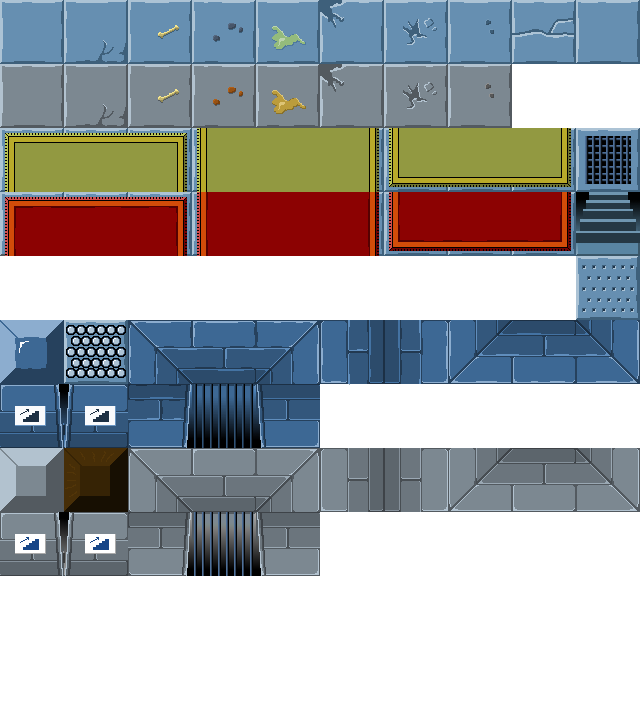
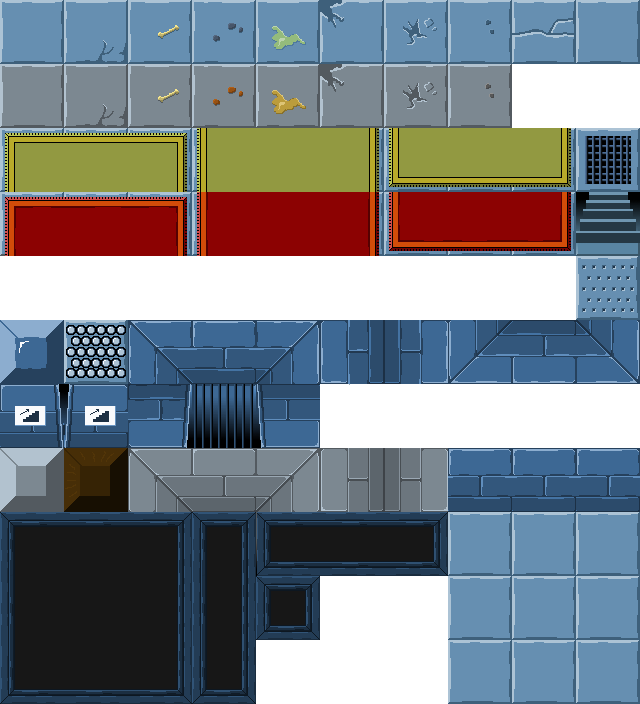
ADD Holes in map

Changed region(s): [[0.0, 0.625, 1.0, 1.0]]

diff --git a/src/StandardRoomGenerator.h b/src/StandardRoomGenerator.h
@@ -23,17 +23,17 @@ void generateStandardRoom01()
 
   if (random < 16)
   {
-    game().getCurrentMap()->generateRoom(rand()%4);
+    game().getCurrentMap()->generateRoomWithoutHoles(rand() % ROOM_TYPE_CHECKER);
     game().findPlaceMonsters(MONSTER_RAT,2);
   }
   else if (random < 32)
   {
-    game().getCurrentMap()->generateRoom(rand()%5);
+    game().getCurrentMap()->generateRoomWithoutHoles(rand() % ROOM_TYPE_ALL);
     game().findPlaceMonsters(MONSTER_BAT,2);
   }
   else if (random < 48)
   {
-    game().getCurrentMap()->generateRoom(rand()%5);
+    game().getCurrentMap()->generateRoomWithoutHoles(rand() % ROOM_TYPE_ALL);
     game().findPlaceMonsters(MONSTER_EVIL_FLOWER,2);
   }
   else
@@ -50,17 +50,17 @@ void generateStandardRoom02()
 
   if (random < 16)
   {
-    game().getCurrentMap()->generateRoom(rand()%4);
+    game().getCurrentMap()->generateRoomRandom(rand() % ROOM_TYPE_CHECKER);
     game().findPlaceMonsters(MONSTER_RAT,4);
   }
   else if (random < 32)
   {
-    game().getCurrentMap()->generateRoom(rand()%5);
+    game().getCurrentMap()->generateRoomRandom(rand() % ROOM_TYPE_ALL);
     game().findPlaceMonsters(MONSTER_BAT,4);
   }
   else if (random < 48)
   {
-    game().getCurrentMap()->generateRoom(rand()%5);
+    game().getCurrentMap()->generateRoomRandom(rand() % ROOM_TYPE_ALL);
     game().findPlaceMonsters(MONSTER_EVIL_FLOWER,4);
   }
   else if (random < 64)
@@ -71,13 +71,13 @@ void generateStandardRoom02()
   }
   else if (random < 80)
   {
-    game().getCurrentMap()->generateRoom(rand()%4);
+    game().getCurrentMap()->generateRoomRandom(rand() % ROOM_TYPE_ALL);
     game().findPlaceMonsters(MONSTER_RAT,3);
     game().findPlaceMonsters(MONSTER_BAT,3);
   }
   else
   {
-    game().getCurrentMap()->generateRoom(4);
+    game().getCurrentMap()->generateRoomRandom(ROOM_TYPE_CHECKER);
     game().findPlaceMonsters(MONSTER_BLACK_RAT,6);
   }
 }
@@ -88,18 +88,18 @@ void generateStandardRoom03()
 
   if (random < 16)
   {
-    game().getCurrentMap()->generateRoom(rand()%4);
+    game().getCurrentMap()->generateRoomRandom(rand() % ROOM_TYPE_CHECKER);
     game().findPlaceMonsters(MONSTER_RAT, 6);
   }
   else if (random < 32)
   {
-    game().getCurrentMap()->generateRoom(rand()%5);
+    game().getCurrentMap()->generateRoomRandom(rand() % ROOM_TYPE_ALL);
     game().findPlaceMonsters(MONSTER_BAT, 6);
     if (rand() % 3 == 0) game().findPlaceMonsters(MONSTER_IMP_RED, 1);
   }
   else if (random < 48)
   {
-    game().getCurrentMap()->generateRoom(rand()%5);
+    game().getCurrentMap()->generateRoomRandom(rand() % ROOM_TYPE_ALL);
     game().findPlaceMonsters(MONSTER_EVIL_FLOWER, 5);
     if (rand() % 3 == 0) game().findPlaceMonsters(MONSTER_IMP_BLUE, 1);
   }
@@ -111,7 +111,7 @@ void generateStandardRoom03()
   }
   else if (random < 80)
   {
-    game().getCurrentMap()->generateRoom(rand()%4);
+    game().getCurrentMap()->generateRoomRandom(rand() % ROOM_TYPE_CHECKER);
     game().findPlaceMonsters(MONSTER_RAT,3);
     game().findPlaceMonsters(MONSTER_BAT,3);
     if (rand() % 2 == 0) game().findPlaceMonsters(MONSTER_IMP_RED, 1);
@@ -119,12 +119,12 @@ void generateStandardRoom03()
   }
   else if (random < 95)
   {
-    game().getCurrentMap()->generateRoom(4);
+    game().getCurrentMap()->generateRoomRandom(ROOM_TYPE_CHECKER);
     game().findPlaceMonsters(MONSTER_BLACK_RAT,6);
   }
   else
   {
-    game().getCurrentMap()->generateRoom(rand()%4);
+    game().getCurrentMap()->generateRoomWithoutHoles(rand() % ROOM_TYPE_CHECKER);
     game().getCurrentMap()->addRandomGrids(4);
     game().findPlaceMonsters(MONSTER_SLIME, 7 + rand() % 5);
     if (rand() % 4 == 0) game().findPlaceMonsters(MONSTER_SLIME_BLUE, 1);
@@ -138,19 +138,19 @@ void generateStandardRoom04()
 
   if (random < 16)
   {
-    game().getCurrentMap()->generateRoom(rand()%4);
+    game().getCurrentMap()->generateRoomRandom(rand() % ROOM_TYPE_CHECKER);
     game().findPlaceMonsters(MONSTER_RAT, 7);
   }
   else if (random < 32)
   {
-    game().getCurrentMap()->generateRoom(rand()%5);
+    game().getCurrentMap()->generateRoomRandom(rand() % ROOM_TYPE_ALL);
     game().findPlaceMonsters(MONSTER_BAT, 3);
     if (rand() % 2 == 0) game().findPlaceMonsters(MONSTER_IMP_RED, 3);
     else game().findPlaceMonsters(MONSTER_IMP_BLUE, 3);
   }
   else if (random < 48)
   {
-    game().getCurrentMap()->generateRoom(rand()%5);
+    game().getCurrentMap()->generateRoomRandom(rand() % ROOM_TYPE_ALL);
     game().findPlaceMonsters(MONSTER_EVIL_FLOWER, 5);
     if (rand() % 2 == 0) game().findPlaceMonsters(MONSTER_IMP_RED, 2);
     else game().findPlaceMonsters(MONSTER_IMP_BLUE, 2);
@@ -163,18 +163,18 @@ void generateStandardRoom04()
   }
   else if (random < 80)
   {
-    game().getCurrentMap()->generateRoom(rand()%4);
+    game().getCurrentMap()->generateRoomRandom(rand() % ROOM_TYPE_CHECKER);
     game().findPlaceMonsters(MONSTER_IMP_RED, 3);
     game().findPlaceMonsters(MONSTER_IMP_BLUE, 3);
   }
   else if (random < 95)
   {
-    game().getCurrentMap()->generateRoom(4);
+    game().getCurrentMap()->generateRoomRandom(ROOM_TYPE_CHECKER);
     game().findPlaceMonsters(MONSTER_BLACK_RAT,7);
   }
   else
   {
-    game().getCurrentMap()->generateRoom(rand()%4);
+    game().getCurrentMap()->generateRoomWithoutHoles(rand() % ROOM_TYPE_CHECKER);
     game().getCurrentMap()->addRandomGrids(4);
     int r = 8 + rand() % 5;
     for (int i = 0; i < r; i++)

diff --git a/src/DungeonMap.cpp b/src/DungeonMap.cpp
@@ -143,6 +143,7 @@ bool DungeonMap::isFlyable(int x, int y)
 bool DungeonMap::isShootable(int x, int y)
 {
   if (!inMap(x, y)) return true;
+  if (map[x][y] >=  MAP_HOLE) return true;
   return (map[x][y] < MAP_WALL);
 }
 
@@ -369,7 +370,13 @@ void DungeonMap::generateExitRoom()
   map[x0 + 1][0] = 61;
 }
 
-void DungeonMap::generateRoom(int type)
+void DungeonMap::generateRoomRandom(int type)
+{
+  if (rand() % 3 == 0) generateRoomWithHoles(type);
+  else generateRoomWithoutHoles(type);
+}
+
+void DungeonMap::generateRoomWithoutHoles(int type)
 {
   initRoom();
   int x0 = MAP_WIDTH / 2;
@@ -426,12 +433,98 @@ void DungeonMap::generateRoom(int type)
       }
 
   }
-  if (type == 4)
+  if (type == ROOM_TYPE_CHECKER)
   {
     // "checker"
     for (i = 2; i < MAP_WIDTH - 2; i = i + 2)
       for (j = 2; j < MAP_HEIGHT - 2; j = j + 2)
         map[i][j] = MAP_WALL;
+  }
+}
+
+void DungeonMap::generateRoomWithHoles(int type)
+{
+  initRoom();
+  int x0 = MAP_WIDTH / 2;
+  int y0 = MAP_HEIGHT / 2;
+  int i, j, r;
+
+  if (type == 0)
+  {
+    if (roomType == roomTypeStarting)
+    {
+      generateCarpet(5, 3, 5, 3, 30);
+
+      if (game().getLevel() > 1)
+      {
+        map[x0 - 1][MAP_HEIGHT - 1] = 62;
+        map[x0][MAP_HEIGHT - 1]     = 63;
+        map[x0 + 1][MAP_HEIGHT - 1] = 64;
+      }
+    }
+    if (roomType == roomTypeBoss && game().getLevel() == 2) // giant slime
+    {
+    map[1][1] = MAP_GRID;
+    map[1][MAP_HEIGHT -2] = MAP_GRID;
+    map[MAP_WIDTH - 2][1] = MAP_GRID;
+    map[MAP_WIDTH - 2][MAP_HEIGHT -2] = MAP_GRID;
+    }
+  }
+  if (type == 1)
+  {
+    // corner hole
+    map[1][1] = MAP_HOLE_7;
+    map[1][MAP_HEIGHT -2] = MAP_HOLE_1;
+    map[MAP_WIDTH - 2][1] = MAP_HOLE_9;
+    map[MAP_WIDTH - 2][MAP_HEIGHT -2] = MAP_HOLE_3;
+  }
+  if (type == 2)
+  {
+    // blocks in the middle
+    r = 1 + rand() % 3;
+    for (i = x0 - r; i <= x0 + r; i++)
+      for (j = y0 - 1; j <= y0 + 1; j++)
+      {
+        if (i == x0 - r && j == y0 - 1) map[i][j] = MAP_HOLE_7;
+        else if (i == x0 - r && j == y0 + 1) map[i][j] = MAP_HOLE_4; //MAP_HOLE_1;
+        else if (i == x0 - r) map[i][j] = MAP_HOLE_4;
+        else if (i == x0 + r && j == y0 - 1) map[i][j] = MAP_HOLE_8; //MAP_HOLE_9;
+        else if (i == x0 + r && j == y0 + 1) map[i][j] = MAP_HOLE_5; //MAP_HOLE_3;
+        else if (i == x0 + r) map[i][j] = MAP_HOLE_5; //MAP_HOLE_6;
+        else if (j == y0 - 1) map[i][j] = MAP_HOLE_8;
+        else if (j == y0 + 1) map[i][j] = MAP_HOLE_5; //MAP_HOLE_2;
+        else map[i][j] = MAP_HOLE_5;
+      }
+  }
+  if (type == 3)
+  {
+    // 4 holes
+    map[2][2] = MAP_HOLE_7;
+    map[2][3] = MAP_HOLE_4;
+    map[3][2] = MAP_HOLE_8;
+    map[3][3] = MAP_HOLE_5;
+
+    map[MAP_WIDTH - 4][2] = MAP_HOLE_7;
+    map[MAP_WIDTH - 4][3] = MAP_HOLE_4;
+    map[MAP_WIDTH - 3][2] = MAP_HOLE_8;
+    map[MAP_WIDTH - 3][3] = MAP_HOLE_5;
+
+    map[2][MAP_HEIGHT - 4] = MAP_HOLE_7;
+    map[2][MAP_HEIGHT - 3] = MAP_HOLE_4;
+    map[3][MAP_HEIGHT - 4] = MAP_HOLE_8;
+    map[3][MAP_HEIGHT - 3] = MAP_HOLE_5;
+
+    map[MAP_WIDTH - 4][MAP_HEIGHT - 4] = MAP_HOLE_7;
+    map[MAP_WIDTH - 4][MAP_HEIGHT - 3] = MAP_HOLE_4;
+    map[MAP_WIDTH - 3][MAP_HEIGHT - 4] = MAP_HOLE_8;
+    map[MAP_WIDTH - 3][MAP_HEIGHT - 3] = MAP_HOLE_5;
+  }
+  if (type == 4)
+  {
+    // "checker"
+    for (i = 2; i < MAP_WIDTH - 2; i = i + 2)
+      for (j = 2; j < MAP_HEIGHT - 2; j = j + 2)
+        map[i][j] = MAP_HOLE_7;
   }
 }
 

diff --git a/src/DungeonMap.h b/src/DungeonMap.h
@@ -19,7 +19,20 @@ const int MAP_WALL_1        =   57;
 const int MAP_WALL_2        =   58;
 const int MAP_WALL_3        =   59;
 const int MAP_GRID          =   29;
+const int MAP_HOLE          =   80;
+const int MAP_HOLE_7        =   80;
+const int MAP_HOLE_8        =   81;
+const int MAP_HOLE_9        =   82;
+const int MAP_HOLE_4        =   90;
+const int MAP_HOLE_5        =   91;
+const int MAP_HOLE_6        =   92;
+const int MAP_HOLE_1        =   100;
+const int MAP_HOLE_2        =   101;
+const int MAP_HOLE_3        =   102;
+const int MAP_HOLE_SINGLE   =   94;
 
+const int ROOM_TYPE_CHECKER = 4;
+const int ROOM_TYPE_ALL     = 5;
 
 class GameFloor;
 
@@ -66,7 +79,9 @@ class DungeonMap : public GameMap
     virtual void randomize(int n);
     void initRoom();
     void generateCarpet(int x0, int y0, int w, int h, int n);
-    void generateRoom(int type);
+    void generateRoomRandom(int type);
+    void generateRoomWithoutHoles(int type);
+    void generateRoomWithHoles(int type);
     void generateExitRoom();
     Vector2D generateBonusRoom();
     Vector2D generateMerchantRoom();

diff --git a/src/WitchBlastGame.cpp b/src/WitchBlastGame.cpp
@@ -1248,7 +1248,7 @@ void WitchBlastGame::generateMap()
   }
   else if (currentMap->getRoomType() == roomTypeBoss)
   {
-    currentMap->generateRoom(0);
+    currentMap->generateRoomWithoutHoles(0);
 
     if (level == 1)
       new ButcherEntity(OFFSET_X + (MAP_WIDTH / 2) * TILE_WIDTH + TILE_WIDTH / 2,
@@ -1267,7 +1267,7 @@ void WitchBlastGame::generateMap()
   }
   else if (currentMap->getRoomType() == roomTypeStarting)
   {
-    currentMap->generateRoom(0);
+    currentMap->generateRoomWithoutHoles(0);
     currentMap->setCleared(true);
     int bonusType = getRandomEquipItem(false);
   }
